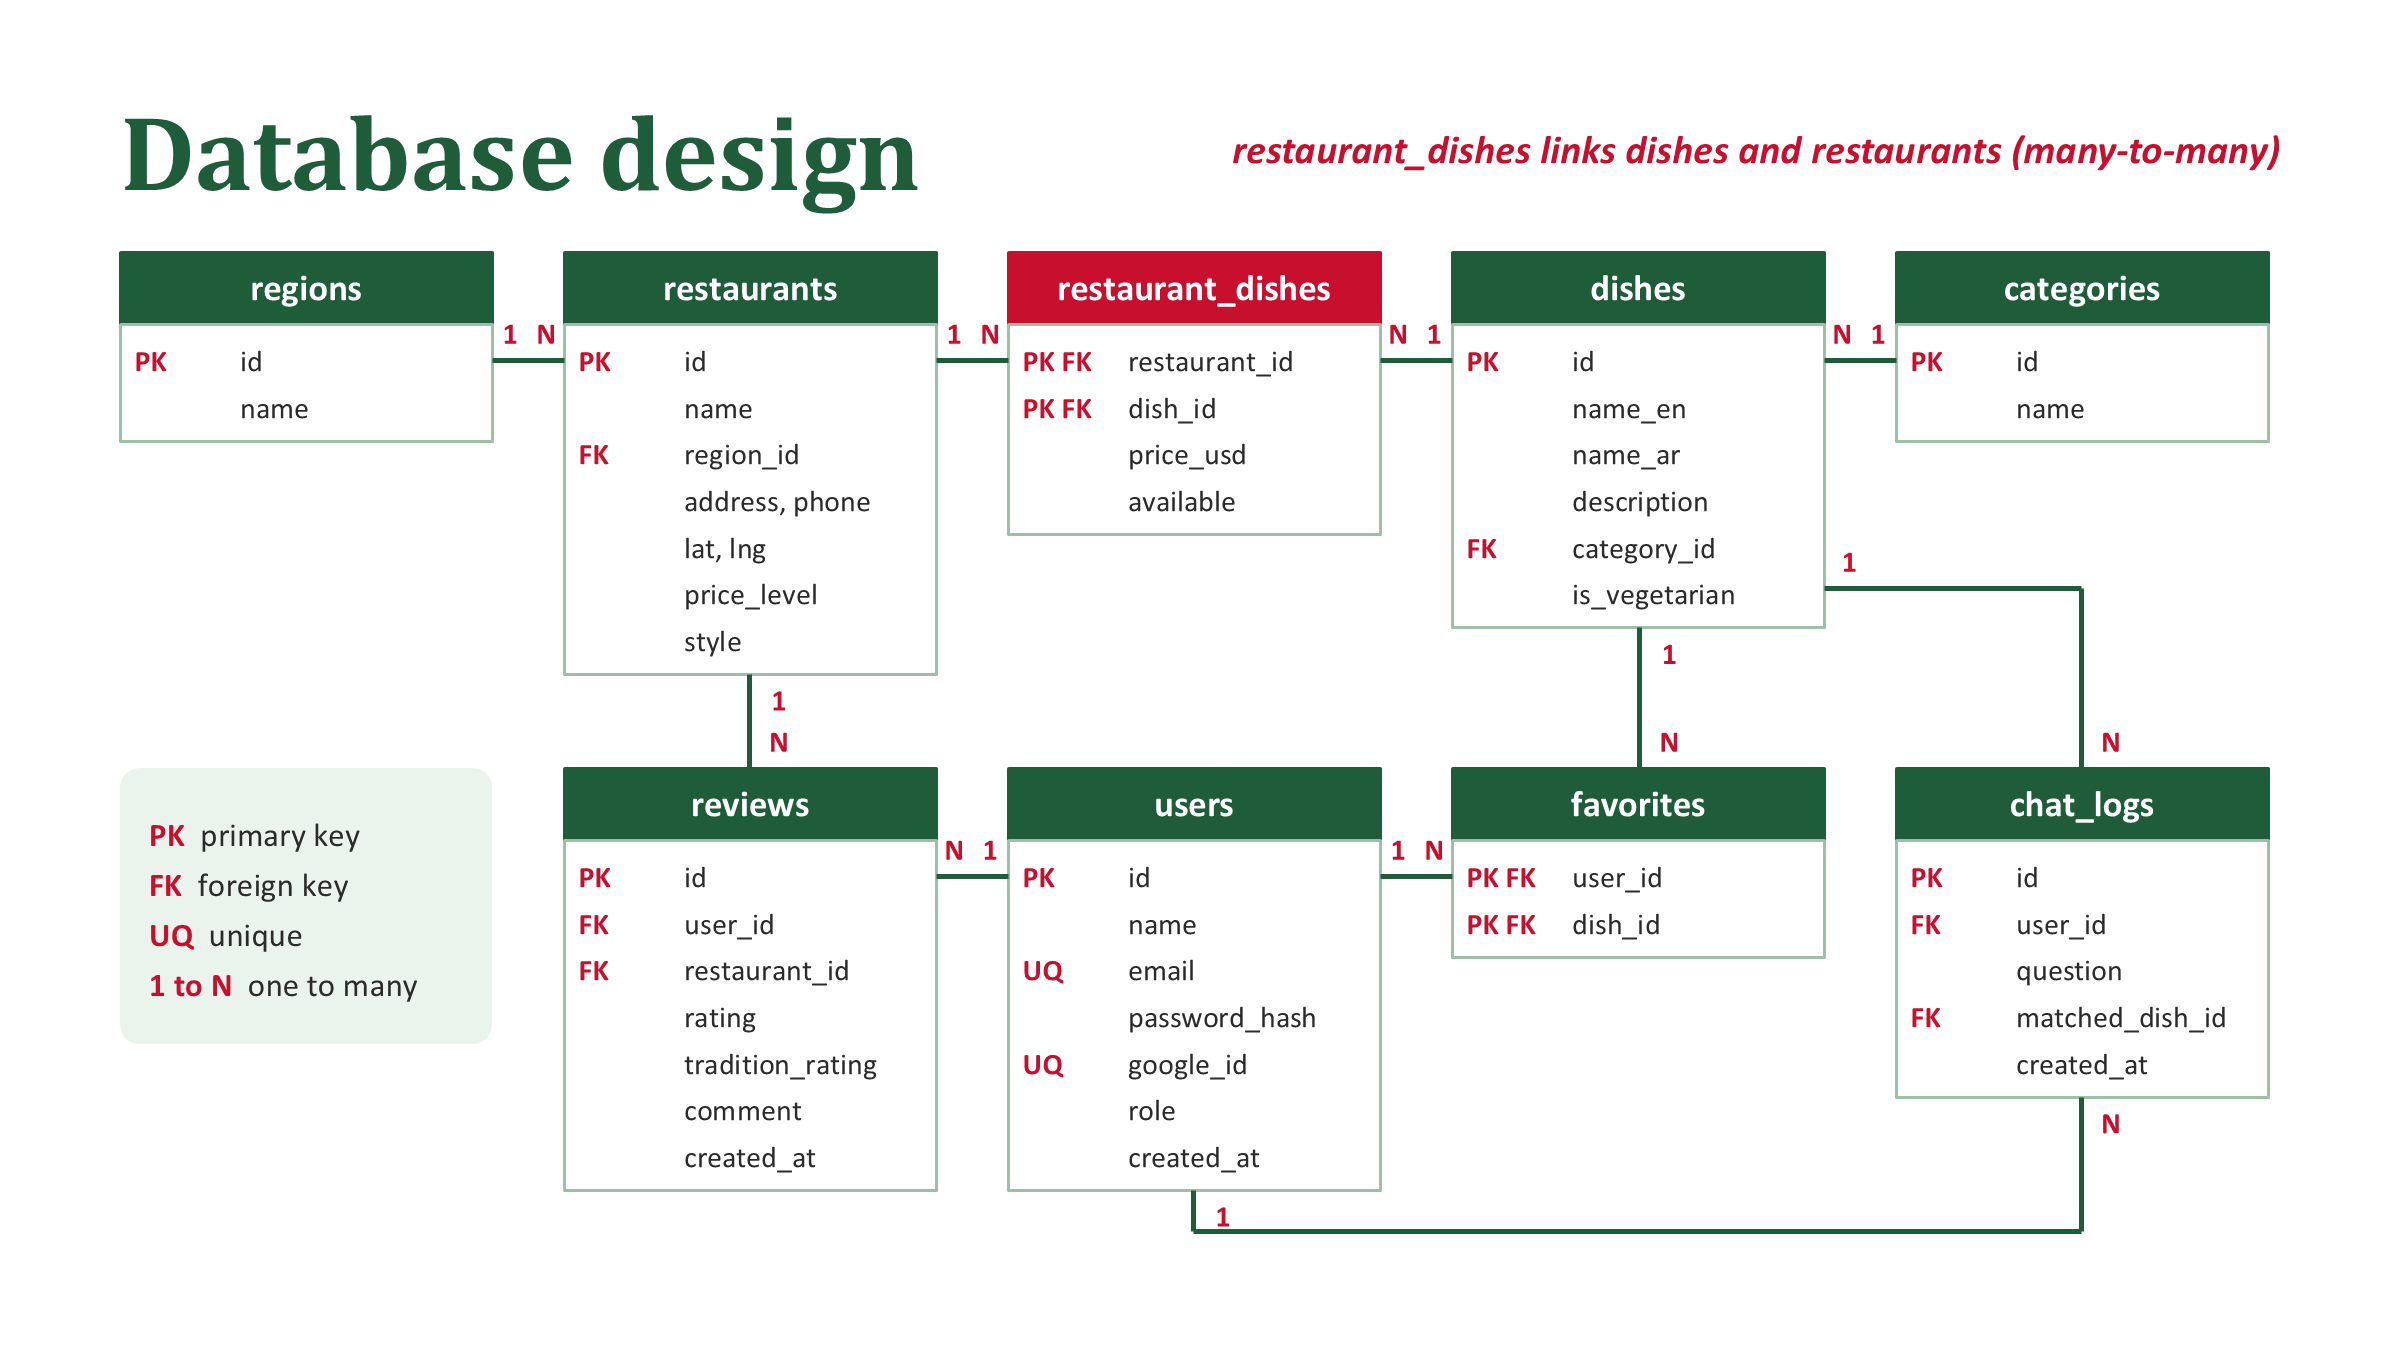
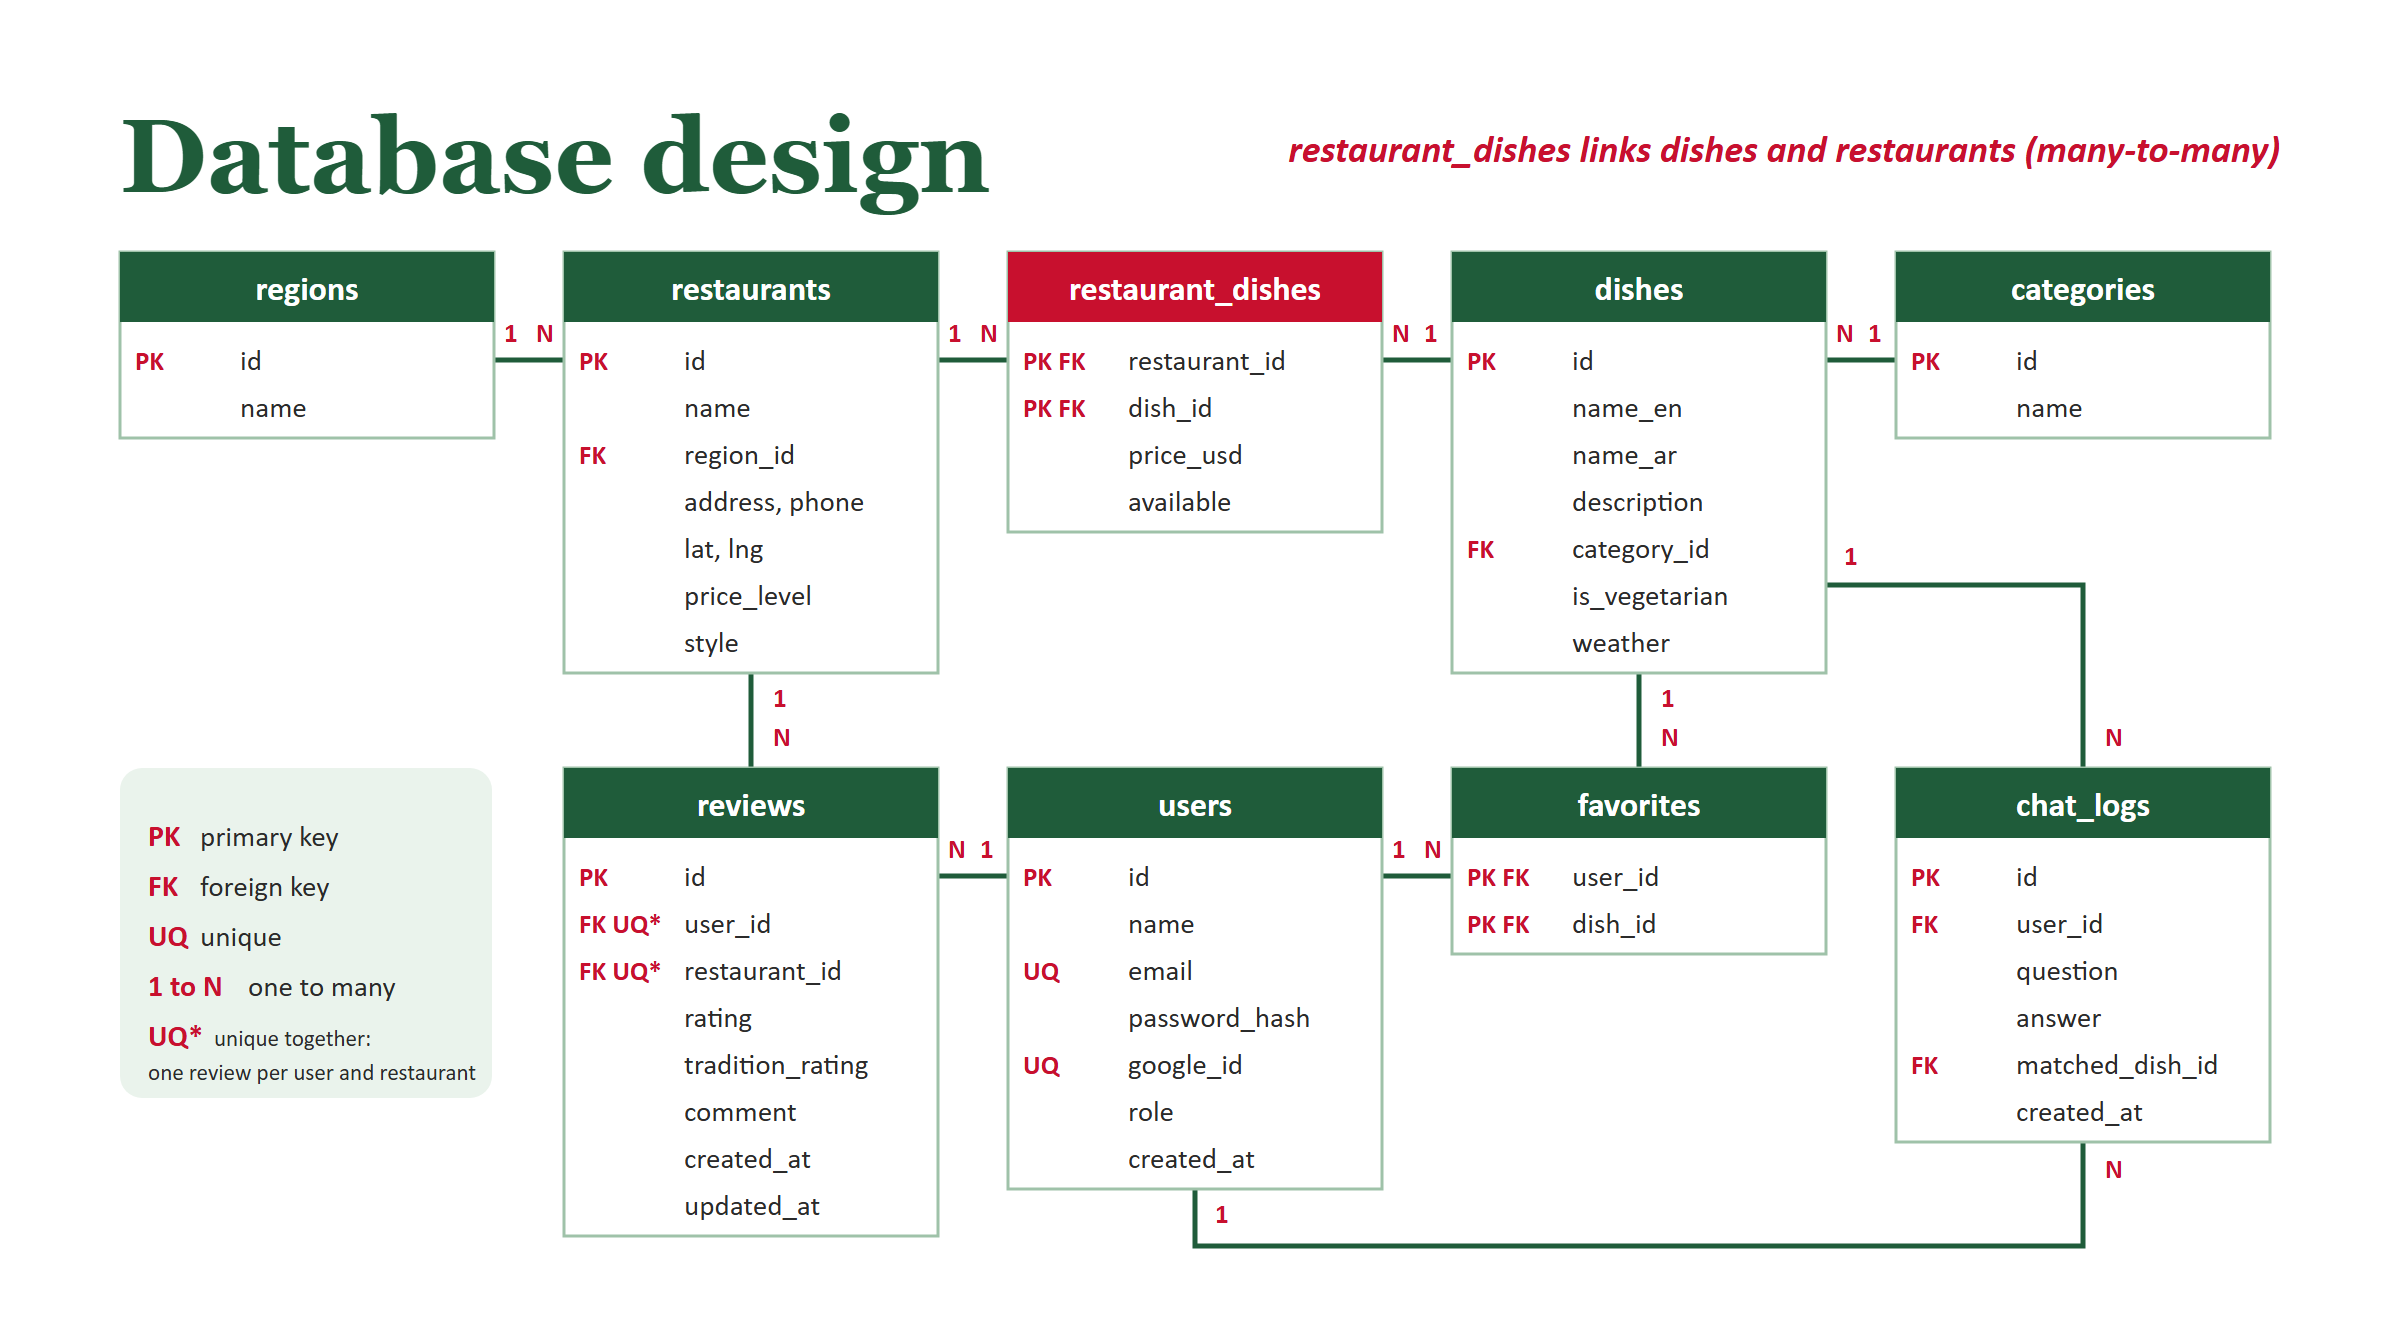
Add weather, chat answer and review updated_at to the database
- dishes.weather (hot / cold / any): lets dish-of-the-day pick a dish
  that suits the weather from Open-Meteo. Seeded for all 10 dishes, and
  accepted (required) in POST/PUT /api/dishes.
- chat_logs.answer: stores what the chatbot replied.
- reviews.updated_at: null until a review is edited.
- ER diagram redrawn with the new columns and the one-review-per-user rule.

diff --git a/modules/dishes.module.js b/modules/dishes.module.js
@@ -29,10 +29,10 @@ async function findById(id) {
 // inserts a dish and returns it with its new id
 async function create(dish) {
   const { rows } = await pool.query(
-    `INSERT INTO dishes (name_en, name_ar, description, category_id, is_vegetarian)
-     VALUES ($1, $2, $3, $4, $5)
+    `INSERT INTO dishes (name_en, name_ar, description, category_id, is_vegetarian, weather)
+     VALUES ($1, $2, $3, $4, $5, $6)
      RETURNING *`,
-    [dish.name_en, dish.name_ar, dish.description, dish.category_id, dish.is_vegetarian]
+    [dish.name_en, dish.name_ar, dish.description, dish.category_id, dish.is_vegetarian, dish.weather]
   );
   return rows[0];
 }
@@ -41,10 +41,10 @@ async function create(dish) {
 async function replace(id, dish) {
   const { rows } = await pool.query(
     `UPDATE dishes
-     SET name_en = $1, name_ar = $2, description = $3, category_id = $4, is_vegetarian = $5
-     WHERE id = $6
+     SET name_en = $1, name_ar = $2, description = $3, category_id = $4, is_vegetarian = $5, weather = $6
+     WHERE id = $7
      RETURNING *`,
-    [dish.name_en, dish.name_ar, dish.description, dish.category_id, dish.is_vegetarian, id]
+    [dish.name_en, dish.name_ar, dish.description, dish.category_id, dish.is_vegetarian, dish.weather, id]
   );
   return rows[0];
 }

diff --git a/middlewares/validateDish.js b/middlewares/validateDish.js
@@ -1,11 +1,14 @@
 // checks the body of a dish request (POST, PUT): every field must be sent
 
+const WEATHERS = ['hot', 'cold', 'any'];
+
 const RULES = {
   name_en: { check: (v) => typeof v === 'string' && v.trim() !== '', message: 'name_en must be a non-empty string' },
   name_ar: { check: (v) => typeof v === 'string', message: 'name_ar must be a string' },
   description: { check: (v) => typeof v === 'string', message: 'description must be a string' },
   category_id: { check: (v) => Number.isInteger(v) && v > 0, message: 'category_id must be a positive integer' },
   is_vegetarian: { check: (v) => typeof v === 'boolean', message: 'is_vegetarian must be true or false' },
+  weather: { check: (v) => WEATHERS.includes(v), message: 'weather must be hot, cold or any' },
 };
 
 function validateDish(req, res, next) {

diff --git a/README.md b/README.md
@@ -38,7 +38,7 @@ Web Programming 1 project by Julien Matar, Peter Nehmeh and Freddy Rayess.
 |---|---|---|
 | GET | `/api/dishes` | all dishes |
 | GET | `/api/dishes/:id` | one dish |
-| POST | `/api/dishes` | create a dish `{ name_en, name_ar, description, category_id, is_vegetarian }` |
+| POST | `/api/dishes` | create a dish `{ name_en, name_ar, description, category_id, is_vegetarian, weather }` |
 | PUT | `/api/dishes/:id` | replace a dish (same body) |
 | DELETE | `/api/dishes/:id` | delete a dish |
 | GET | `/api/restaurants` | all restaurants |
